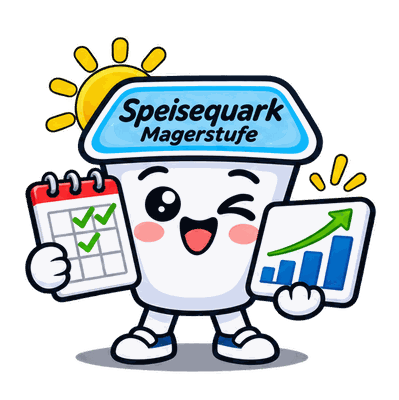
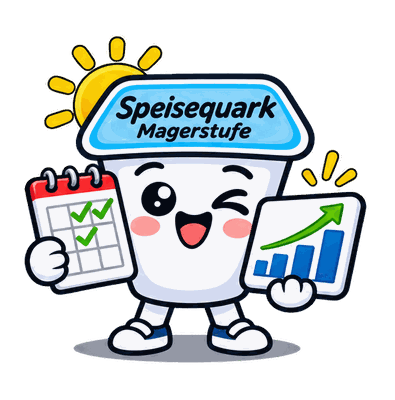
v271: Kaffeezeit-Becher 15–17 Uhr
Kaffeezeit-Serie (html[data-coffee]) mit Kaffee und Kuchen; Sammelbild
in fünf Vorlagen zerlegt, alle 25 Becher gemeinsam ausgerichtet; Cache v10.

Claude-Session: https://claude.ai/code/session_01TMv9R9yYMCp8CJQHTSCZNX

Changed region(s): [[0.0608, 0.09, 0.9418, 0.93]]

diff --git a/index.html b/index.html
@@ -861,6 +861,12 @@ button, select, input { touch-action: manipulation } body:not(.reporting) { touc
 [data-skin="quark"][data-noon][data-tab="prog"] .top::after { background-image: url("maskottchen/quark-mittag-prog.png") }
 [data-skin="quark"][data-noon][data-tab="body"] .top::after { background-image: url("maskottchen/quark-mittag-body.png") }
 [data-skin="quark"][data-noon][data-tab="plan"] .top::after { background-image: url("maskottchen/quark-mittag-plan.png") }
+/* v271: Kaffeezeit (html[data-coffee], 15–17 Uhr) Becher mit Kaffee und Kuchen */
+[data-skin="quark"][data-coffee] .top::after { background-image: url("maskottchen/quark-kaffee-home.png") }
+[data-skin="quark"][data-coffee][data-tab="train"] .top::after { background-image: url("maskottchen/quark-kaffee-train.png") }
+[data-skin="quark"][data-coffee][data-tab="prog"] .top::after { background-image: url("maskottchen/quark-kaffee-prog.png") }
+[data-skin="quark"][data-coffee][data-tab="body"] .top::after { background-image: url("maskottchen/quark-kaffee-body.png") }
+[data-skin="quark"][data-coffee][data-tab="plan"] .top::after { background-image: url("maskottchen/quark-kaffee-plan.png") }
 [data-skin="quark"][data-tab="set"] .top::after, [data-skin="quark"] .top:has(.sync.err)::after { display: none } [data-skin="quark"][data-tab="set"] .top { min-height: 0 }
 @media (max-width: 380px) { [data-skin="quark"] .top::after { left: 92px; width: 90px; height: 80px; top: -2px } [data-skin="quark"] .top.haski::after { left: 50% } }
 /* v259 (Vorlage des Nutzers aus ChatGPT): Design „Hähnchen, Reis & Brokkoli“ – warmes Creme, Orange als Akzent, Grün als Zweitfarbe,
@@ -1068,8 +1074,9 @@ body.ndragging, body.ndragging * { -webkit-user-select: none; user-select: none;
   /* Neuerungen: Bei jeder Änderung an der App APP_VERSION um 1 erhöhen und unten einen Eintrag mit dem
      betroffenen Reiter (train, prog, body, plan, data) ergänzen. Nach einem Update zeigt die App die neuen
      Einträge einmal an und markiert die Reiter bis zum nächsten Öffnen mit einem gelben Punkt. */
-  var APP_VERSION = 270; window.TL_VER = APP_VERSION;
+  var APP_VERSION = 271; window.TL_VER = APP_VERSION;
   var CHANGES = [
+    { v: 271, tab: "home", text: "Kaffeezeit: Von 15 bis 17 Uhr gönnen sich die Quarkbecher Kaffee und Kuchen – mit Hantelbank-Pause, Pokal, Maßband und Coach-Klemmbrett." },
     { v: 270, tab: "home", text: "Mahlzeit: Von 11 bis halb drei machen die Quarkbecher Mittagspause – mit Mittagessen, Shake, Wochenplan, Maßband und Meal-Prep-Box." },
     { v: 269, tab: "home", text: "Guten Morgen: Von 6 bis 10 Uhr sind die Quarkbecher frisch aufgestanden – mit Sonne, Kaffee, Frühstück, Morgen-Stretching, Waage und Wecker." },
     { v: 268, tab: "home", text: "Magerquark ist jetzt das Standard-Design (das bisherige heißt „Klassisch“ und bleibt wählbar). Und nachts schlafen die Quarkbecher: ab deiner Schlafenszeit bis 6 Uhr liegen sie in jedem Reiter im Sternenbett." },
@@ -2147,7 +2154,7 @@ body.ndragging, body.ndragging * { -webkit-user-select: none; user-select: none;
      (Start: alle 30 min, Rückkehr in die App: alle 5 min), erscheint der Hinweis #upd in der Mitte (seit v85). */
   /* Seit v100 (Fable-Prüfung): Update leert den Cache nicht mehr (sonst fehlten offline zxing/Körperkarte), sondern legt die neue
      index.html vorher in den Cache. Ohne Netz kein Neuladen, damit keine leere Seite entsteht. SWC muss zu CACHE in sw.js passen. */
-  var SWC = "trainingslog-v9", SWF = ["./", "./index.html", "./manifest.webmanifest", "./icon-192.png", "./icon-512.png", "./apple-touch-icon.png", "./inter.woff2", "./space-grotesk.woff2", "./zxing.min.js", "./koerperkarte.png", "./koerperkarte-licht.jpg", "./maskottchen/quark-home.png", "./maskottchen/quark-train.png", "./maskottchen/quark-prog.png", "./maskottchen/quark-body.png", "./maskottchen/quark-plan.png", "./maskottchen/quark-nacht-home.png", "./maskottchen/quark-nacht-train.png", "./maskottchen/quark-nacht-prog.png", "./maskottchen/quark-nacht-body.png", "./maskottchen/quark-nacht-plan.png", "./maskottchen/quark-morgen-home.png", "./maskottchen/quark-morgen-train.png", "./maskottchen/quark-morgen-prog.png", "./maskottchen/quark-morgen-body.png", "./maskottchen/quark-morgen-plan.png", "./maskottchen/quark-mittag-home.png", "./maskottchen/quark-mittag-train.png", "./maskottchen/quark-mittag-prog.png", "./maskottchen/quark-mittag-body.png", "./maskottchen/quark-mittag-plan.png"];
+  var SWC = "trainingslog-v10", SWF = ["./", "./index.html", "./manifest.webmanifest", "./icon-192.png", "./icon-512.png", "./apple-touch-icon.png", "./inter.woff2", "./space-grotesk.woff2", "./zxing.min.js", "./koerperkarte.png", "./koerperkarte-licht.jpg", "./maskottchen/quark-home.png", "./maskottchen/quark-train.png", "./maskottchen/quark-prog.png", "./maskottchen/quark-body.png", "./maskottchen/quark-plan.png", "./maskottchen/quark-nacht-home.png", "./maskottchen/quark-nacht-train.png", "./maskottchen/quark-nacht-prog.png", "./maskottchen/quark-nacht-body.png", "./maskottchen/quark-nacht-plan.png", "./maskottchen/quark-morgen-home.png", "./maskottchen/quark-morgen-train.png", "./maskottchen/quark-morgen-prog.png", "./maskottchen/quark-morgen-body.png", "./maskottchen/quark-morgen-plan.png", "./maskottchen/quark-mittag-home.png", "./maskottchen/quark-mittag-train.png", "./maskottchen/quark-mittag-prog.png", "./maskottchen/quark-mittag-body.png", "./maskottchen/quark-mittag-plan.png", "./maskottchen/quark-kaffee-home.png", "./maskottchen/quark-kaffee-train.png", "./maskottchen/quark-kaffee-prog.png", "./maskottchen/quark-kaffee-body.png", "./maskottchen/quark-kaffee-plan.png"];
   function cacheHeal() { /* fehlende Offline-Dateien nachladen (z. B. nach altem Update mit Cache-Leeren) */
     if (!window.caches || navigator.onLine === false || location.protocol === "file:" || !("serviceWorker" in navigator)) return;
     caches.open(SWC).then(function (c) { SWF.forEach(function (f) { c.match(f, { ignoreSearch: true }).then(function (h) { if (!h) c.add(f).catch(function () {}); }); }); }).catch(function () {});
@@ -6585,7 +6592,7 @@ body.ndragging, body.ndragging * { -webkit-user-select: none; user-select: none;
   function cafLatest(room, bedMs, now) { if (room <= 0 || cafAmt(90, bedMs - now) > room) return now; var lo = now, hi2 = bedMs; for (var it = 0; it < 40; it++) { var md = (lo + hi2) / 2; if (cafAmt(90, bedMs - md) <= room) lo = md; else hi2 = md; } return lo; }
   function bedTime() { var b = S.person && HMRE.test(S.person.bed || "") ? S.person.bed : "23:00", d = new Date(), m = /^(\d{2}):(\d{2})$/.exec(b); d.setHours(+m[1], +m[2], 0, 0); if (+m[1] < 12) d.setDate(d.getDate() + 1); return { ms: d.getTime(), hm: b }; }
   /* v268 (Wunsch des Nutzers): Nachts schlafen die Quarkbecher – von der Schlafenszeit (Einstellungen, sonst 23:00) bis 6 Uhr.
-     Setzt html[data-night]; die Bilder wechseln per CSS nur im Design Magerquark (hell und dunkel). v269: dazu html[data-morning] 6–10 Uhr, v270 html[data-noon] 11:00–14:30. */
+     Setzt html[data-night]; die Bilder wechseln per CSS nur im Design Magerquark (hell und dunkel). v269: dazu html[data-morning] 6–10 Uhr, v270 html[data-noon] 11:00–14:30, v271 html[data-coffee] 15–17 Uhr. */
   function nightSet() {
     var b = S.person && HMRE.test(S.person.bed || "") ? S.person.bed : "23:00", m = /^(\d{2}):(\d{2})$/.exec(b), bm = +m[1] * 60 + +m[2],
       d = new Date(), nm = d.getHours() * 60 + d.getMinutes(), on = bm >= 360 ? (nm >= bm || nm < 360) : (nm >= bm && nm < 360), de = document.documentElement;
@@ -6594,6 +6601,8 @@ body.ndragging, body.ndragging * { -webkit-user-select: none; user-select: none;
     if (mo !== (de.dataset.morning === "1")) { if (mo) de.dataset.morning = "1"; else delete de.dataset.morning; }
     var no = !on && nm >= 660 && nm < 870; /* v270: mittags 11:00–14:30 (wie Mahlzeit „Mittag“) Becher beim Mittagessen (html[data-noon]) */
     if (no !== (de.dataset.noon === "1")) { if (no) de.dataset.noon = "1"; else delete de.dataset.noon; }
+    var co = !on && nm >= 900 && nm < 1020; /* v271: Kaffeezeit 15–17 Uhr, Becher mit Kaffee und Kuchen (html[data-coffee]) */
+    if (co !== (de.dataset.coffee === "1")) { if (co) de.dataset.coffee = "1"; else delete de.dataset.coffee; }
   }
   /* v112 (Wunsch des Nutzers): Koffeinspiegel über den Tag. Jede Einnahme hebt sofort an, Abbau mit CAF_HL. Von der ersten Einnahme (volle Stunde) bis 1 h nach der Schlafenszeit. */
   /* v127 (Nutzer: Energy um 22 Uhr, nach Mitternacht stand der Zähler auf null): Einnahmen tragen eine absolute Zeit (cafMs),

diff --git a/sw.js b/sw.js
@@ -1,7 +1,7 @@
 /* Trainingslog – Service Worker: macht die App offline nutzbar.
    Antwortet aus dem Cache und holt im Hintergrund die neue Fassung. Anfragen mit dem Parameter „fresh“
    (Versionsprüfung der App) gehen direkt ans Netz. CACHE nur ändern, wenn sich FILES ändert – dann auch SWC/SWF in index.html anpassen (cacheHeal). */
-const CACHE = "trainingslog-v9";
+const CACHE = "trainingslog-v10";
 const FILES = [
   "./",
   "./index.html",
@@ -33,7 +33,12 @@ const FILES = [
   "./maskottchen/quark-mittag-train.png",
   "./maskottchen/quark-mittag-prog.png",
   "./maskottchen/quark-mittag-body.png",
-  "./maskottchen/quark-mittag-plan.png"
+  "./maskottchen/quark-mittag-plan.png",
+  "./maskottchen/quark-kaffee-home.png",
+  "./maskottchen/quark-kaffee-train.png",
+  "./maskottchen/quark-kaffee-prog.png",
+  "./maskottchen/quark-kaffee-body.png",
+  "./maskottchen/quark-kaffee-plan.png"
 ];
 
 self.addEventListener("install", (event) => {

diff --git a/app/design/quark-maskottchen.py b/app/design/quark-maskottchen.py
@@ -2,12 +2,12 @@
 # Quelle: Einzelbilder des Nutzers aus ChatGPT (1254 × 1254 px, transparent, ohne Markennamen) in
 # app/design/quark-vorlagen/{home,train,prog,body,plan}.png (Tag) und nacht-{…}.png (schlafend, ab Schlafenszeit bis 6 Uhr;
 # bei nacht-home war ein Karomuster ins Bild gemalt – einmalig entfernt) und morgen-{…}.png (6–10 Uhr, seit v269) und mittag-{…}.png (11:00–14:30, seit v270; aus einem Sammelbild
-# zerlegt und hochskaliert, damit der Deckeltext gleich breit ist).
-# Dieses Skript richtet alle zwanzig Becher aneinander aus
+# zerlegt und hochskaliert, damit der Deckeltext gleich breit ist) und kaffee-{…}.png (15–17 Uhr, seit v271, ebenso).
+# Dieses Skript richtet alle 25 Becher aneinander aus
 # (Mitte und Unterkante des Deckeltexts „Speisequark Magerstufe“), schneidet alle fünf auf dieselbe Fläche zu und
 # schreibt kleine PNGs mit 256 Farben:
 #   python3 app/design/quark-maskottchen.py app/design/quark-vorlagen maskottchen
-# Ergebnis: maskottchen/quark-{…}.png, quark-nacht-{…}.png, quark-morgen-{…}.png und quark-mittag-{…}.png, eingebunden in index.html über
+# Ergebnis: maskottchen/quark-{…}.png, quark-nacht-{…}.png, quark-morgen-{…}.png quark-mittag-{…}.png und quark-kaffee-{…}.png, eingebunden in index.html über
 # [data-skin="quark"] … .top::after, offline über sw.js (FILES) und SWF in index.html, iPhone-App über app/copy-web.mjs.
 import sys
 import numpy as np
@@ -28,7 +28,7 @@ def anchor(a):
     ty, tx = np.where(txt)
     return (tx.min() + tx.max()) / 2, ty.max(), tx.max() - tx.min()
 
-SETS = [("", "quark-"), ("nacht-", "quark-nacht-"), ("morgen-", "quark-morgen-"), ("mittag-", "quark-mittag-")]      # (Vorlagen-Präfix, Ausgabe-Präfix)
+SETS = [("", "quark-"), ("nacht-", "quark-nacht-"), ("morgen-", "quark-morgen-"), ("mittag-", "quark-mittag-"), ("kaffee-", "quark-kaffee-")]      # (Vorlagen-Präfix, Ausgabe-Präfix)
 
 def main(src, out):
     jobs = [(pre_in + n, pre_out + n) for pre_in, pre_out in SETS for n in NAMES]

diff --git a/AGENTS.md b/AGENTS.md
@@ -2,7 +2,7 @@
 
 Diese Datei ist der gemeinsame Stand für alle KI-Assistenten, die an diesem Repo arbeiten (Claude, ChatGPT/Codex). **Zuerst lesen, bei jeder Änderung mitpflegen.** Kurz halten: nur der aktuelle Stand, keine Geschichte (die steht in `VERLAUF.md`). Das Repo ist öffentlich – hier nichts Persönliches eintragen.
 
-**Stand:** v270 (23.11.2026)
+**Stand:** v271 (23.11.2026)
 
 ## Vor jeder Arbeit
 1. `git pull` und `git log --oneline -15`: Hat der andere Assistent seit dem letzten Mal etwas geändert? Dann diese Änderungen zuerst durchsehen und Auffälligkeiten dem Besitzer melden, nicht ungefragt im fremden Bereich umbauen.
@@ -54,7 +54,7 @@ Diese Datei ist der gemeinsame Stand für alle KI-Assistenten, die an diesem Rep
   - **Plan:** Sätze pro Muskelgruppe, Trainingstage, Plan teilen/Plan-Code, Assistent, Übungskatalog.
 - **Zahnrad:** Design, Hell/Dunkel, Farbenblind, Haptik, Trainingsart; Daten & Hilfe (Sicherung, Export, Bericht, Profile, Hilfe, Was ist neu?).
 - **Modi:** Kraft, Ausdauer (ohne Plan), beides, „Nur Ernährung“ (nur Ernährung und Körper) – `TABS_FOOD`/`TABS_CARDIO`.
-- **Designs:** Magerquark ist seit v268 das Standard-Design (ohne Merker `trainingslog-look` → „quark“; das frühere „Standard“ heißt „Klassisch“, Kennung "", gemerkt als „std“). Magerquark (`data-skin="quark"`, seit v267 hell und dunkel „Nachtblau“ – folgt Hell/Dunkel, Farben über Tokens `--q…`; seit v265 je Reiter ein Quarkbecher als fertiges Bild `maskottchen/quark-*.png`, nachts (`html[data-night]`, Schlafenszeit bis 6 Uhr, `nightSet()`) schlafend `quark-nacht-*.png`, morgens (`html[data-morning]`, 6–10 Uhr) `quark-morgen-*.png`, mittags (`html[data-noon]`, 11:00–14:30) `quark-mittag-*.png`; erzeugt mit `app/design/quark-maskottchen.py` aus den Einzelvorlagen in `app/design/quark-vorlagen/`; bei geänderten Bildern `CACHE` in `sw.js` und `SWC` hochzählen), Hähnchen, Reis & Brokkoli (`data-skin="huhn"`, hell, seit v259), Sky Blue (`data-skin="sky"`, hell, seit v263, ersetzt „Gym Kawaii“; je Reiter ein Küken über `html[data-tab]`, seit v264 eine Figur im Kawaii-/Chibi-Stil in fünf Posen, 220×108 px; Bilder nur über `python3 app/design/sky-gen.py --apply index.html` ändern, nicht von Hand; Dunkelmodus später), Aurora, Diät (`data-look="hell"`), Aufbau (`data-look="winter"`). Designs mit eigenem `data-skin` stehen in `SKINS` (Wert = erzwungenes Hell/Dunkel oder "" = folgt der Einstellung); interne Kennungen nicht umbenennen (Merker beim Nutzer).
+- **Designs:** Magerquark ist seit v268 das Standard-Design (ohne Merker `trainingslog-look` → „quark“; das frühere „Standard“ heißt „Klassisch“, Kennung "", gemerkt als „std“). Magerquark (`data-skin="quark"`, seit v267 hell und dunkel „Nachtblau“ – folgt Hell/Dunkel, Farben über Tokens `--q…`; seit v265 je Reiter ein Quarkbecher als fertiges Bild `maskottchen/quark-*.png`, nachts (`html[data-night]`, Schlafenszeit bis 6 Uhr, `nightSet()`) schlafend `quark-nacht-*.png`, morgens (`html[data-morning]`, 6–10 Uhr) `quark-morgen-*.png`, mittags (`html[data-noon]`, 11:00–14:30) `quark-mittag-*.png`, Kaffeezeit (`html[data-coffee]`, 15–17 Uhr) `quark-kaffee-*.png`; erzeugt mit `app/design/quark-maskottchen.py` aus den Einzelvorlagen in `app/design/quark-vorlagen/`; bei geänderten Bildern `CACHE` in `sw.js` und `SWC` hochzählen), Hähnchen, Reis & Brokkoli (`data-skin="huhn"`, hell, seit v259), Sky Blue (`data-skin="sky"`, hell, seit v263, ersetzt „Gym Kawaii“; je Reiter ein Küken über `html[data-tab]`, seit v264 eine Figur im Kawaii-/Chibi-Stil in fünf Posen, 220×108 px; Bilder nur über `python3 app/design/sky-gen.py --apply index.html` ändern, nicht von Hand; Dunkelmodus später), Aurora, Diät (`data-look="hell"`), Aufbau (`data-look="winter"`). Designs mit eigenem `data-skin` stehen in `SKINS` (Wert = erzwungenes Hell/Dunkel oder "" = folgt der Einstellung); interne Kennungen nicht umbenennen (Merker beim Nutzer).
 - **Rundgang** (`TOUR`): Willkommen → Ernährung → Training → Fortschritt → Körper → Plan → Zahnrad → Einstellungen.
 
 ## Offen

diff --git a/VERLAUF.md b/VERLAUF.md
@@ -296,3 +296,4 @@ Repo ist öffentlich: hier nur technische Entscheidungen, keine persönlichen Da
 - v268 (Nutzer: Schlaf-Serie „für die Nacht-Version“, Antwort „1C, 2“ = je Reiter eigene Schlaf-Version, nur nachts ab Schlafenszeit; „die Quark-Oberfläche soll dann Standard werden“): (1) `nightSet()` setzt `html[data-night]` von `person.bed` (sonst 23:00) bis 06:00 – Aufruf in `renderAll0`, im 30-s-Takt und bei `visibilitychange`; CSS `[data-skin="quark"][data-night] … .top::after` mit `maskottchen/quark-nacht-*.png` (hell und dunkel). Vorlagen `app/design/quark-vorlagen/nacht-*.png` (bei nacht-home Karomuster einmalig entfernt); `quark-maskottchen.py` richtet Tag und Nacht gemeinsam aus (Fläche 1276 × 1261 → 405 × 400 px). Offline: `sw.js` FILES + `CACHE`/`SWC` v6 → v7, `app/copy-web.mjs`. (2) Magerquark ist Standard: Kopf-Skript nimmt ohne `trainingslog-look` „quark“, `lookSet("")` speichert „std“ (Klassisch), `LOOKS` mit Magerquark vorn, „Standard“ → „Klassisch“, Handbuch angepasst. (3) `app/freunde-build.py` legt Unterordner an (für `maskottchen/`).
 - v269 (Morgen-Serie des Nutzers aus ChatGPT, „einmal alles einbauen und auch die Freunde-App nachziehen“): `nightSet()` setzt zusätzlich `html[data-morning]` 6–10 Uhr (nicht während der Nacht); CSS `[data-skin="quark"][data-morning] … .top::after` mit `quark-morgen-*.png`. Vorlagen `app/design/quark-vorlagen/morgen-*.png`; `quark-maskottchen.py` richtet alle 15 Becher gemeinsam aus (Fläche 1335 × 1301 → 410 × 400 px) und bestimmt die Textmitte vom rechten Rand, wenn der Schriftzug vorn verdeckt ist (Coach-Kappe). Offline: `sw.js` FILES + `CACHE`/`SWC` v7 → v8, `app/copy-web.mjs`. Freunde-Version auf v269 neu erzeugt (Zusammenfassung in `app/freunde-neu.json`, neuer Speicherschlüssel `trainingslog-mzopen` in `STORE` von `app/freunde-build.py`).
 - v270 (Mittags-Serie des Nutzers aus ChatGPT als Sammelbild): `nightSet()` setzt `html[data-noon]` 11:00–14:30 (wie Mahlzeit „Mittag“); CSS `[data-skin="quark"][data-noon] … .top::after` mit `quark-mittag-*.png`. Sammelbild in fünf Vorlagen `app/design/quark-vorlagen/mittag-*.png` zerlegt und auf gleiche Deckeltext-Breite hochskaliert (Faktor 2,23); `quark-maskottchen.py` richtet alle 20 Becher gemeinsam aus (Fläche 1335 × 1339 → 399 × 400 px, alle Becher dadurch ≈ 3 % kleiner). Offline: `sw.js` FILES + `CACHE`/`SWC` v8 → v9, `app/copy-web.mjs`.
+- v271 (Kaffeezeit-Serie des Nutzers aus ChatGPT als Sammelbild): `nightSet()` setzt `html[data-coffee]` 15:00–17:00; CSS `[data-skin="quark"][data-coffee] … .top::after` mit `quark-kaffee-*.png`. Sammelbild per Bildteilen (Zuordnung nach Schwerpunkt, Figuren berühren sich in der oberen Reihe) in `app/design/quark-vorlagen/kaffee-*.png` zerlegt, Faktor 2,4; alle 25 Becher gemeinsam ausgerichtet (Fläche 1356 × 1373 → 395 × 400 px, Becher dadurch ≈ 2,5 % kleiner). Offline: `sw.js` FILES + `CACHE`/`SWC` v9 → v10, `app/copy-web.mjs`.
